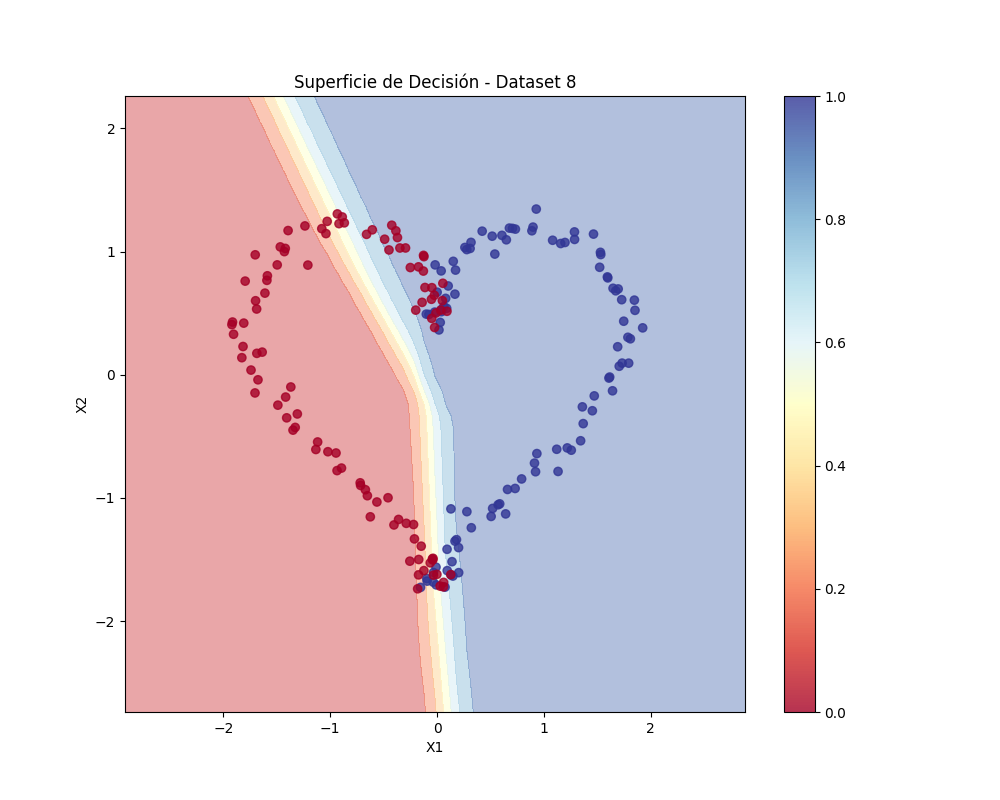
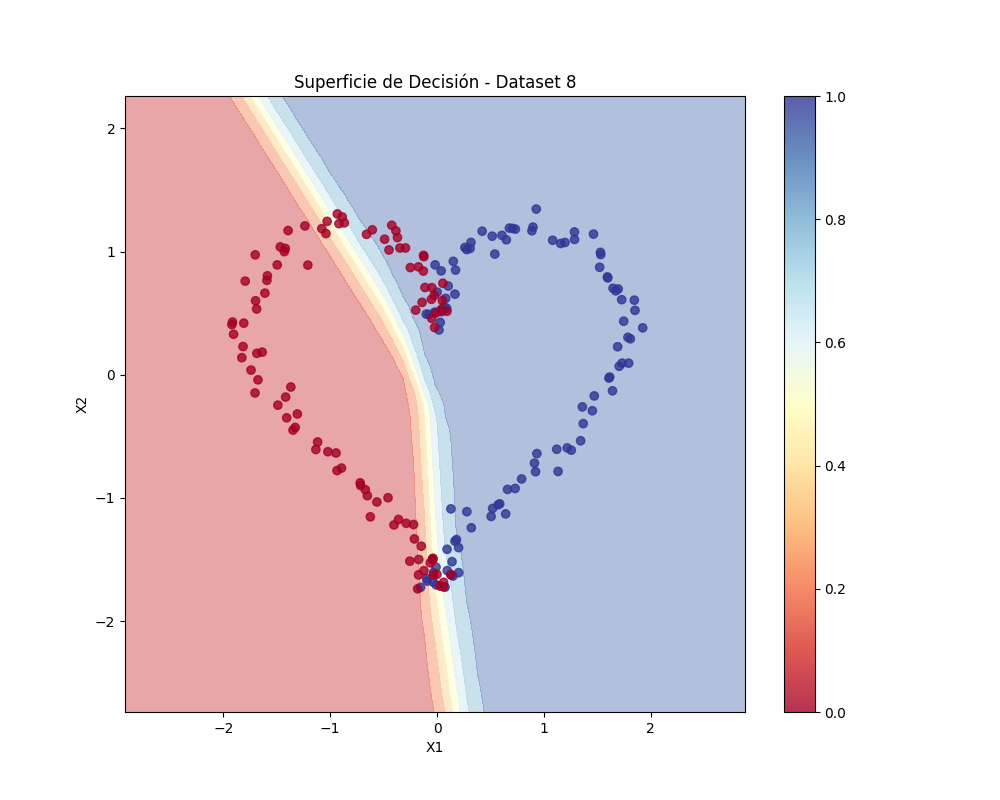
fin tp5 python

Changed region(s): [[0.217, 0.0938, 0.465, 0.625], [0.403, 0.7188, 0.496, 0.9062]]

diff --git a/TP 5 Deeper Playground/redneuronal kfold mas capas.py b/TP 5 Deeper Playground/redneuronal kfold mas capas.py
@@ -10,6 +10,7 @@ import matplotlib.pyplot as plt
 from sklearn.metrics import confusion_matrix, ConfusionMatrixDisplay
 import seaborn as sns
 from tensorflow.keras.regularizers import l2
+from sklearn.metrics import accuracy_score, precision_score, recall_score, f1_score
 
 # Función para crear el modelo de red neuronal de dos capas ocultas
 def create_model_8():
@@ -36,11 +37,11 @@ def create_model_8():
     return model
 
 
-# Función para crear el modelo de red neuronal de tres capas ocultas
+# Función para crear el modelo de red neuronal de 7 capas ocultas
 def create_model_1():
     model = Sequential([
         # Primera capa oculta con 10 neuronas y activación ReLU
-        Dense(50, activation='relu', input_shape=(2,)),
+        Dense(10, activation='relu', input_shape=(2,)),
         # Segunda capa oculta con 10 neuronas y activación ReLU
         Dense(10, activation='relu'),
         # Tercera capa oculta con 10 neuronas y activación ReLU
@@ -52,6 +53,12 @@ def create_model_1():
         # Sexta capa oculta con 10 neuronas y activación ReLU
         Dense(10, activation='relu'),
         # Septima capa oculta con 10 neuronas y activación ReLU
+        Dense(10, activation='relu'),
+        # Octava capa oculta con 10 neuronas y activación ReLU
+        Dense(10, activation='relu'),
+        # Novena capa oculta con 10 neuronas y activación ReLU
+        Dense(10, activation='relu'),
+        # Decima capa oculta con 10 neuronas y activación ReLU
         Dense(10, activation='relu'),
 
         
@@ -327,6 +334,30 @@ plt.tight_layout()
 # Superficies de decisión con los modelos finales
 plot_decision_boundary(final_model_1, X1, y1, 'Superficie de Decisión - Dataset 1')
 plot_decision_boundary(final_model_8, X8, y8, 'Superficie de Decisión - Dataset 8')
+
+# Calcular y mostrar métricas adicionales para los modelos finales
+accuracy_1 = accuracy_score(y1, y_pred_final_1)
+precision_1 = precision_score(y1, y_pred_final_1)
+recall_1 = recall_score(y1, y_pred_final_1)
+f1_1 = f1_score(y1, y_pred_final_1)
+
+print("\nMétricas para el modelo final - Dataset 1:")
+print(f"Accuracy: {accuracy_1:.4f}")
+print(f"Precision: {precision_1:.4f}")
+print(f"Recall: {recall_1:.4f}")
+print(f"F1 Score: {f1_1:.4f}")
+
+# Métricas para Dataset 8
+accuracy_8 = accuracy_score(y8, y_pred_final_8)
+precision_8 = precision_score(y8, y_pred_final_8)
+recall_8 = recall_score(y8, y_pred_final_8)
+f1_8 = f1_score(y8, y_pred_final_8)
+
+print("\nMétricas para el modelo final - Dataset 8:")
+print(f"Accuracy: {accuracy_8:.4f}")
+print(f"Precision: {precision_8:.4f}")
+print(f"Recall: {recall_8:.4f}")
+print(f"F1 Score: {f1_8:.4f}")
 
 plt.show(block=False)
 input("\nPresiona Enter para finalizar el programa y cerrar todas las figuras...")
